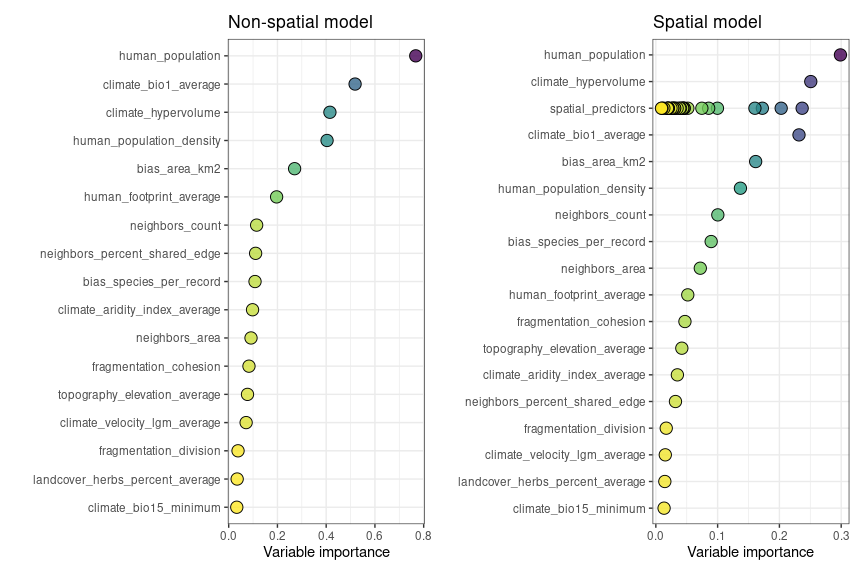
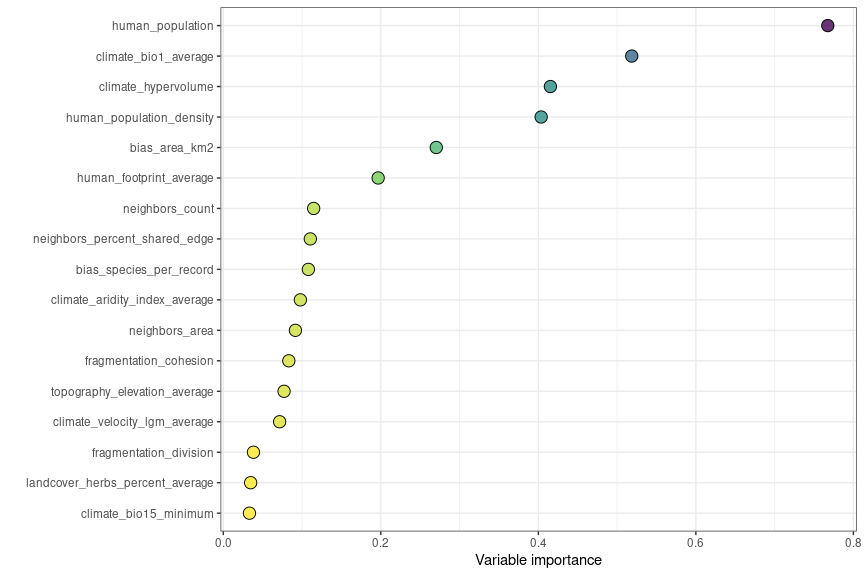
updated README

diff --git a/README.md b/README.md
@@ -63,35 +63,30 @@ There are a few other libraries that will be useful during this
 tutorial.
 
 ``` r
-library(tidyverse, quietly = TRUE)
-```
-
-    ## ── Attaching packages ─────────────────────────────────────── tidyverse 1.3.0 ──
-
-    ## ✓ ggplot2 3.3.3     ✓ purrr   0.3.4
-    ## ✓ tibble  3.0.6     ✓ dplyr   1.0.4
-    ## ✓ tidyr   1.1.2     ✓ stringr 1.4.0
-    ## ✓ readr   1.4.0     ✓ forcats 0.5.1
-
-    ## ── Conflicts ────────────────────────────────────────── tidyverse_conflicts() ──
-    ## x dplyr::filter() masks stats::filter()
-    ## x dplyr::lag()    masks stats::lag()
-
-``` r
-library(kableExtra, quietly = TRUE)
+library(kableExtra)
+library(ggplot2)
+library(dplyr)
 ```
 
     ## 
-    ## Attaching package: 'kableExtra'
+    ## Attaching package: 'dplyr'
 
-    ## The following object is masked from 'package:dplyr':
+    ## The following object is masked from 'package:kableExtra':
     ## 
     ##     group_rows
 
+    ## The following objects are masked from 'package:stats':
+    ## 
+    ##     filter, lag
+
+    ## The following objects are masked from 'package:base':
+    ## 
+    ##     intersect, setdiff, setequal, union
+
 ``` r
-library(patchwork, quietly = TRUE)
-library(rnaturalearth, quietly = TRUE)
-library(rnaturalearthdata, quietly = TRUE)
+library(patchwork)
+library(rnaturalearth)
+library(rnaturalearthdata)
 ```
 
 ## Fitting spatial models with `spatialRF`
@@ -206,19 +201,23 @@ non-spatial predictors.
 
 ``` r
 p1 <- plot_importance(model.non.spatial) + ggplot2::ggtitle("Non-spatial model")
+```
+
+![](README_files/figure-gfm/unnamed-chunk-10-1.png)<!-- -->
+
+``` r
 p2 <- plot_importance(model.spatial) + ggplot2::ggtitle("Spatial model")
+```
+
+![](README_files/figure-gfm/unnamed-chunk-10-2.png)<!-- -->
+
+``` r
 p1 | p2
 ```
 
-![](README_files/figure-gfm/unnamed-chunk-10-1.png)<!-- --> If we take a
+![](README_files/figure-gfm/unnamed-chunk-10-3.png)<!-- --> If we take a
 look to the five most important variables in **model.spatial** we will
 see that a few of them are spatial predictors.
-
-``` r
-kableExtra::kable(
-  head(model.spatial$variable.importance$per.variable)
-) %>% kableExtra::kable_styling()
-```
 
 <table class="table" style="margin-left: auto; margin-right: auto;">
 <thead>
@@ -283,8 +282,9 @@ spatial\_predictor\_1500\_2
 </tbody>
 </table>
 
-Three of these are spatial predictors generated by **rf\_spatial()**.
-How do these spatial predictors look?
+Spatial predictors, as shown below, are smooth surfaces representing
+neighborhood among records at different spatial scales. But where do
+they come from? How are they generated and included in the model?
 
 ![](README_files/figure-gfm/unnamed-chunk-12-1.png)<!-- -->
 
@@ -316,6 +316,103 @@ as shown in the optimization plot below (every dot represents one
 spatial predictor, and its size matches their position in the ranking,
 and their order of inclusioin in the model).
 
-![](README_files/figure-gfm/unnamed-chunk-13-1.png)<!-- -->
+![](README_files/figure-gfm/unnamed-chunk-13-1.png)<!-- --> \#\#
+Assessing model performance
 
-![](README_files/figure-gfm/unnamed-chunk-14-1.png)<!-- -->![](README_files/figure-gfm/unnamed-chunk-14-2.png)<!-- -->
+Models fitted with `rf()` or `rf_spatial()` have a performance slot with
+several performance measures.
+
+``` r
+print_performance(model.spatial)
+```
+
+    ## 
+    ## Model performance 
+    ##   - R squared (OOB):                 0.53
+    ##   - Pseudo R squared:                0.745
+    ##   - RMSE:                            2309.948
+    ##   - Normalized RMSE:                 0.667
+
+R squared is computed on the out-of-bag data (fraction of data not used
+while training each regression tree in the forest), while the other
+three performance measures are computed by comparing observations and
+model predictions. These performance scores are not computed on
+independent data, and therefore do not represent the model ability to
+predict over *unseen* data.
+
+The function `rf_evaluate()` separates the data into a number of
+spatially independent training and testing folds, fits a model on each
+training fold, predicts over each testing fold, and computes performance
+measures, to finally aggregate them across model repetitions. Let’s see
+how it works.
+
+``` r
+model.spatial <- rf_evaluate(
+  model = model.spatial,
+  xy = plant_richness_df[, c("x", "y")], #data coordinates
+  repetitions = 30,                      #number of folds
+  training.fraction = 0.75,              #training data fraction
+  verbose = FALSE
+)
+```
+
+``` r
+print_evaluation(model.spatial)
+```
+
+    ## 
+    ## Spatial evaluation 
+    ##   - Training fraction:             0.75
+    ##   - Spatial folds:                 25
+    ##   - R squared: 
+    ##             ┌──────────┬───────┬──────────────┬─────────┬─────────┐
+    ##             │ Model    │  Mean │     Standard │ minimum │ maximum │
+    ##             │          │       │    deviation │         │         │
+    ##             ├──────────┼───────┼──────────────┼─────────┼─────────┤
+    ##             │ Full     │ 0.530 │              │         │         │
+    ##             ├──────────┼───────┼──────────────┼─────────┼─────────┤
+    ##             │ Training │ 0.496 │        0.085 │   0.396 │   0.624 │
+    ##             ├──────────┼───────┼──────────────┼─────────┼─────────┤
+    ##             │ Testing  │ 0.236 │        0.184 │   0.012 │   0.592 │
+    ##             └──────────┴───────┴──────────────┴─────────┴─────────┘
+    ##   - Pseudo R squared: 
+    ##             ┌──────────┬───────┬──────────────┬─────────┬─────────┐
+    ##             │ Model    │  Mean │     Standard │ minimum │ maximum │
+    ##             │          │       │    deviation │         │         │
+    ##             ├──────────┼───────┼──────────────┼─────────┼─────────┤
+    ##             │ Full     │ 0.745 │              │         │         │
+    ##             ├──────────┼───────┼──────────────┼─────────┼─────────┤
+    ##             │ Training │ 0.720 │        0.058 │   0.635 │   0.802 │
+    ##             ├──────────┼───────┼──────────────┼─────────┼─────────┤
+    ##             │ Testing  │ 0.390 │        0.296 │  -0.114 │   0.769 │
+    ##             └──────────┴───────┴──────────────┴─────────┴─────────┘
+    ##   - RMSE: 
+    ##           ┌──────────┬──────────┬──────────────┬──────────┬──────────┐
+    ##           │ Model    │     Mean │     Standard │  minimum │  maximum │
+    ##           │          │          │    deviation │          │          │
+    ##           ├──────────┼──────────┼──────────────┼──────────┼──────────┤
+    ##           │ Full     │ 2309.948 │              │          │          │
+    ##           ├──────────┼──────────┼──────────────┼──────────┼──────────┤
+    ##           │ Training │ 2262.205 │      419.826 │ 1661.953 │ 2667.371 │
+    ##           ├──────────┼──────────┼──────────────┼──────────┼──────────┤
+    ##           │ Testing  │ 3505.666 │      587.940 │ 2392.508 │ 4469.403 │
+    ##           └──────────┴──────────┴──────────────┴──────────┴──────────┘
+    ##   - NRMSE: 
+    ##             ┌──────────┬───────┬──────────────┬─────────┬─────────┐
+    ##             │ Model    │  Mean │     Standard │ minimum │ maximum │
+    ##             │          │       │    deviation │         │         │
+    ##             ├──────────┼───────┼──────────────┼─────────┼─────────┤
+    ##             │ Full     │ 0.667 │              │         │         │
+    ##             ├──────────┼───────┼──────────────┼─────────┼─────────┤
+    ##             │ Training │ 0.664 │        0.101 │   0.500 │   0.835 │
+    ##             ├──────────┼───────┼──────────────┼─────────┼─────────┤
+    ##             │ Testing  │ 1.308 │        0.638 │   0.639 │   2.298 │
+    ##             └──────────┴───────┴──────────────┴─────────┴─────────┘
+
+``` r
+plot_evaluation(model.spatial)
+```
+
+![](README_files/figure-gfm/unnamed-chunk-17-1.png)<!-- -->
+
+![](README_files/figure-gfm/unnamed-chunk-18-1.png)<!-- -->
